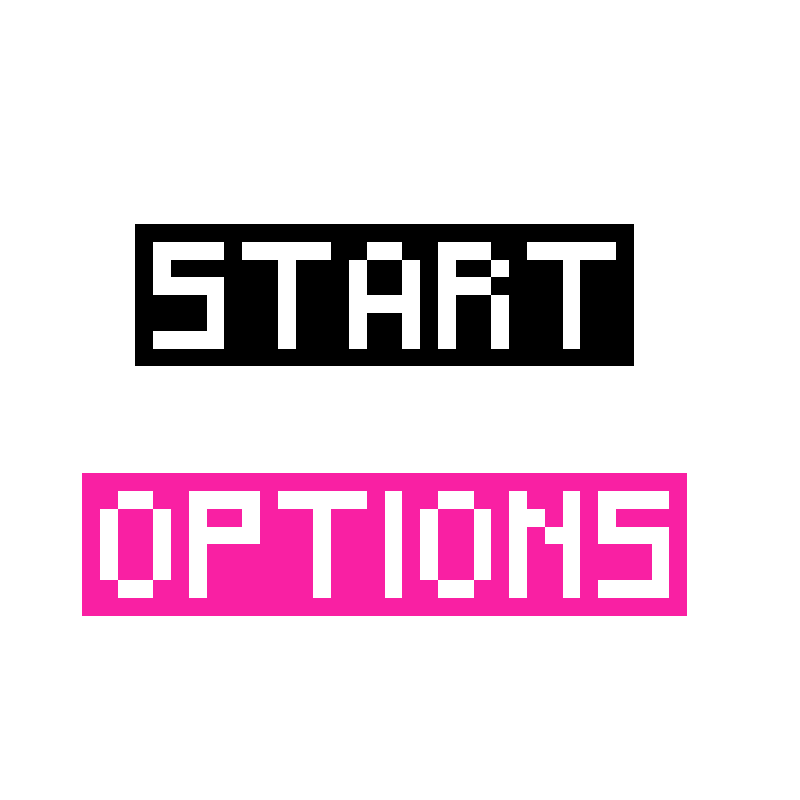
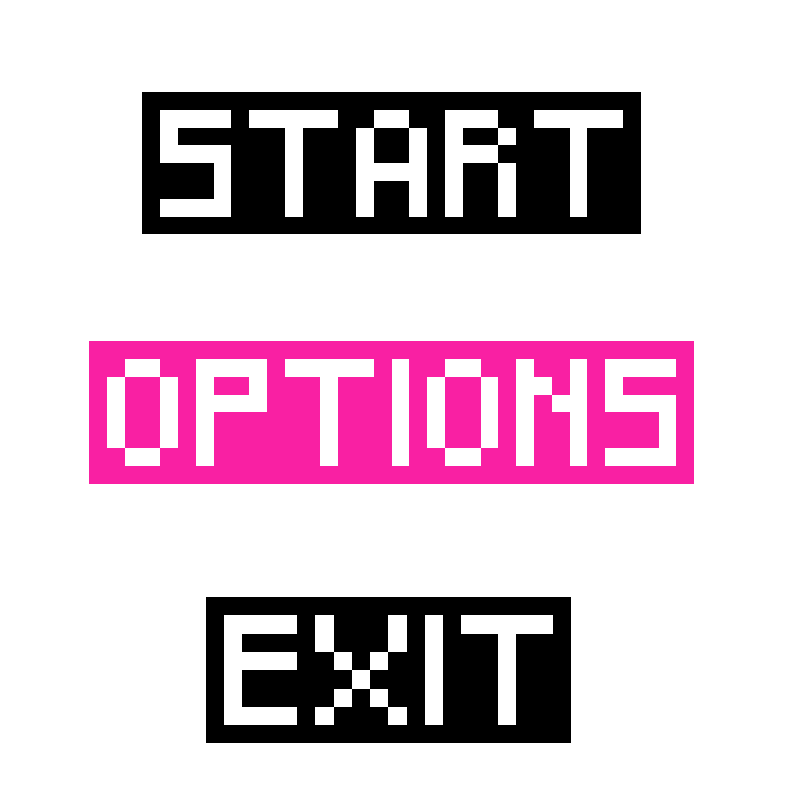
Auto stash before merge of "Startscreen" and "origin/Startscreen"

diff --git a/ProjectMonoGame/Startscreen.cs b/ProjectMonoGame/Startscreen.cs
@@ -13,6 +13,7 @@ namespace ProjectMonoGame
 
         Texture2D startSC;
         Texture2D optionsSC;
+        Texture2D exitSC;
 
         IController inputHandler;
 
@@ -21,13 +22,14 @@ namespace ProjectMonoGame
         private int menuItems;
         private int position = 0;
 
+        public Startscreen(Texture2D startSCIn, Texture2D optionsSCIn, Texture2D exitSCIn, IController inputHandlerIn, int menuItemsIn, Vector2 screenPositionIn)
         private float currentTime;
         private float lastTime = 0;
 
-        public Startscreen(Texture2D startSCIn, Texture2D optionsSCIn, IController inputHandlerIn, int menuItemsIn, Vector2 screenPositionIn)
         {
             startSC = startSCIn;
             optionsSC = optionsSCIn;
+            exitSC = exitSCIn;
             inputHandler = inputHandlerIn;
             menuItems = menuItemsIn;
             screenPosition = screenPositionIn;
@@ -81,6 +83,9 @@ namespace ProjectMonoGame
                     break;
                 case 1:
                     spriteBatch.Draw(optionsSC, new Rectangle((int)screenPosition.X, (int)screenPosition.Y, 800, 800), new Rectangle(0, 0, 800, 800), Color.White);
+                    break;
+                case 2:
+                    spriteBatch.Draw(exitSC, new Rectangle((int)screenPosition.X, (int)screenPosition.Y, 800, 800), new Rectangle(0, 0, 800, 800), Color.White);
                     break;
                 default:
                     break;

diff --git a/ProjectMonoGame/Game1.cs b/ProjectMonoGame/Game1.cs
@@ -71,6 +71,7 @@ namespace ProjectMonoGame
             Texture2D portalTileFour = Content.Load<Texture2D>("PortalEndGoalFour");
             Texture2D startSC = Content.Load<Texture2D>("StartSC");
             Texture2D optionsSC = Content.Load<Texture2D>("OptionSC");
+            Texture2D exitSC = Content.Load<Texture2D>("ExitSC");
             Texture2D loadingScreenTexture = Content.Load<Texture2D>("LoadingScreen");
 
             moveTutorialTexture = Content.Load<Texture2D>("MoveTutorial");
@@ -84,9 +85,8 @@ namespace ProjectMonoGame
             enemyList = new List<Enemy>();
             backdropOne = new Backdrop(backdropOneTexture, 200, 300, 1, 1920, new Vector2(0, 0));
             spriteBatch = new SpriteBatch(GraphicsDevice);
-            startScreen = new Startscreen(startSC, optionsSC, new KeyboardHandler(), 1, new Vector2(600, 200));
-            loadingScreen = new LoadingScreen(loadingScreenTexture, new Vector2(0, 0));
-            finn = new Player(new Vector2(32, 880), finnSpritesheetLeft, finnSpritesheetRight, jumpParticleDust, new KeyboardHandler());
+            startScreen = new Startscreen(startSC, optionsSC, new KeyboardHandler(), 1, new Vector2(600,200));
+            finn = new Player(new Vector2(32, 0), finnSpritesheetLeft, finnSpritesheetRight, jumpParticleDust, new KeyboardHandler());
         }
 
         protected override void UnloadContent()
